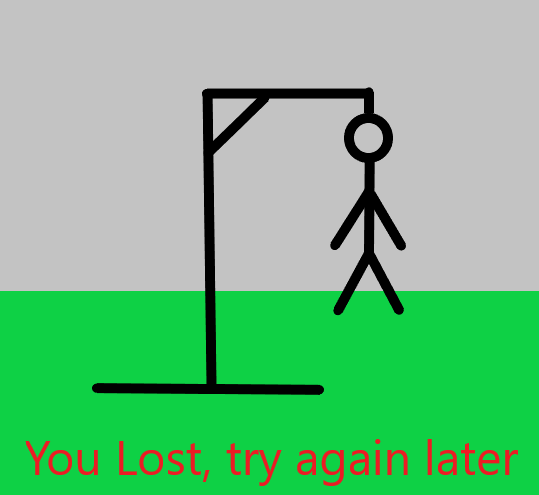
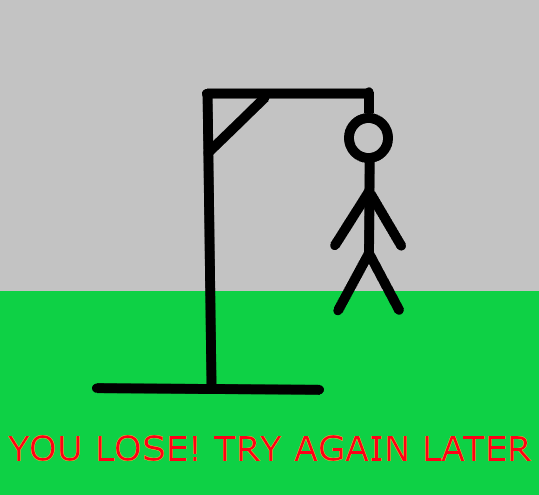
added hangman win image, disabled textfields upon game completion

Changed region(s): [[0.0, 0.8788, 0.9796, 1.0]]

diff --git a/hangman.php b/hangman.php
@@ -4,7 +4,7 @@ session_start();
 const quotes = array("App", "Television", "Hungry", "Basketball", "Hangman", "గోధుమరంగునక్క");
 
  
-$correctQuote = strtolower(quotes[5]);
+$correctQuote = strtoupper(quotes[5]);
 
 // echo $correctQuote;
 if (empty($_SESSION["test"])) {
@@ -21,6 +21,12 @@ function createButtons()
         $attributePhrase = "enabled";
         $attributeLetter = "disabled";
     }
+
+    if ($_SESSION["gameOver"]) {
+        $attributePhrase = "disabled";
+        $attributeLetter = "disabled";
+    }
+
     echo "<label for='single-char-input'>Enter Letter </label>";
     echo "<input type='text' name='letter-guess' id='single-char-input' maxlength ='1' $attributeLetter>";
     echo "<input type='submit' value='Submit' $attributeLetter>";
@@ -72,13 +78,16 @@ function validateInputs()
 {
     if (isset($_GET['letter-guess'])) { // If letter guess is set.
 
-        $guess_letter = strtolower($_GET['letter-guess']); // Get the letter from the URL.
+        $guess_letter = strtoupper($_GET['letter-guess']); // Get the letter from the URL.
 
         if (!in_array($guess_letter, $_SESSION["test"])) {
             if (in_array($guess_letter, $_SESSION["baseChars"]) || in_array($guess_letter, $_SESSION["logicalChars"]) ) { // If the letter is a correct guess, update 'test' array.
                 updateArray($guess_letter);
             } else {
                 $_SESSION["guesses"] = $_SESSION["guesses"] + 1; // If the letter is incorrect, add one to guesses.
+                if ($_SESSION["guesses"] >= 6) {
+                    $_SESSION["gameOver"] = true;
+                }
             }
         }
     }
@@ -88,14 +97,17 @@ function validateInputs()
 function validatePhrase() {
     if (isset($_GET['phrase-guess'])) {
         
-        $guess_phrase = strtolower(trim($_GET['phrase-guess']));
+        $guess_phrase = strtoupper(trim($_GET['phrase-guess']));
         $logicalChars = getLogicalChars($guess_phrase);
 
         if ($_SESSION["logicalChars"] === $logicalChars) {
             $_SESSION["test"] = $_SESSION["logicalChars"];
             $_SESSION["fullMatch"] = array_fill(0, $_SESSION["quoteLength"], true);
+            $_SESSION["guesses"] = 7;
+            $_SESSION["gameOver"] = true;
         } else {
             $_SESSION["guesses"] = 6;
+            $_SESSION["gameOver"] = true;
         }
     }
 }
@@ -137,13 +149,12 @@ function updateArray($letter)
 
         // set full match to true if logical characters match
         if (strcmp($letter, $_SESSION["logicalChars"][$index]) == 0) {
-            $_SESSION["test"][$index] = strtoupper($letter);
+            $_SESSION["test"][$index] = $letter;
             $_SESSION["fullMatch"][$index] = true;
             $_SESSION["remainingChars"]--;
         }
         else if (strcmp($letter, $_SESSION["baseChars"][$index]) == 0) {
-            $_SESSION["test"][$index] = strtoupper($letter);
-            // $_SESSION["fullMatch"][$index] = false;
+            $_SESSION["test"][$index] = $letter;
             $_SESSION["remainingChars"]--;
         }
     }
@@ -175,8 +186,14 @@ function setState()
         case 5:
             echo "./css/images/gallow5.png";
             break;
-        default:
+        case 6:
             echo "./css/images/gallow6.png";
+            break;
+        case 7:
+            echo "./css/images/gallow7.png";
+            break;
+        default:
+            echo "Whoops! Looks like somethings broken.";
             break;
     }
 }
@@ -190,6 +207,7 @@ function resetGame($correctQuote)
     $_SESSION["quoteLength"] = getLength($correctQuote);
     $_SESSION["remainingChars"] = $_SESSION["quoteLength"];
     $_SESSION["quoteLength"] = $_SESSION["remainingChars"];
+    $_SESSION["gameOver"] = false;
 
    // initialize and dynamically fill both arrays base on the quote length
     $_SESSION["fullMatch"] = array_fill(0, $_SESSION["quoteLength"], false);
